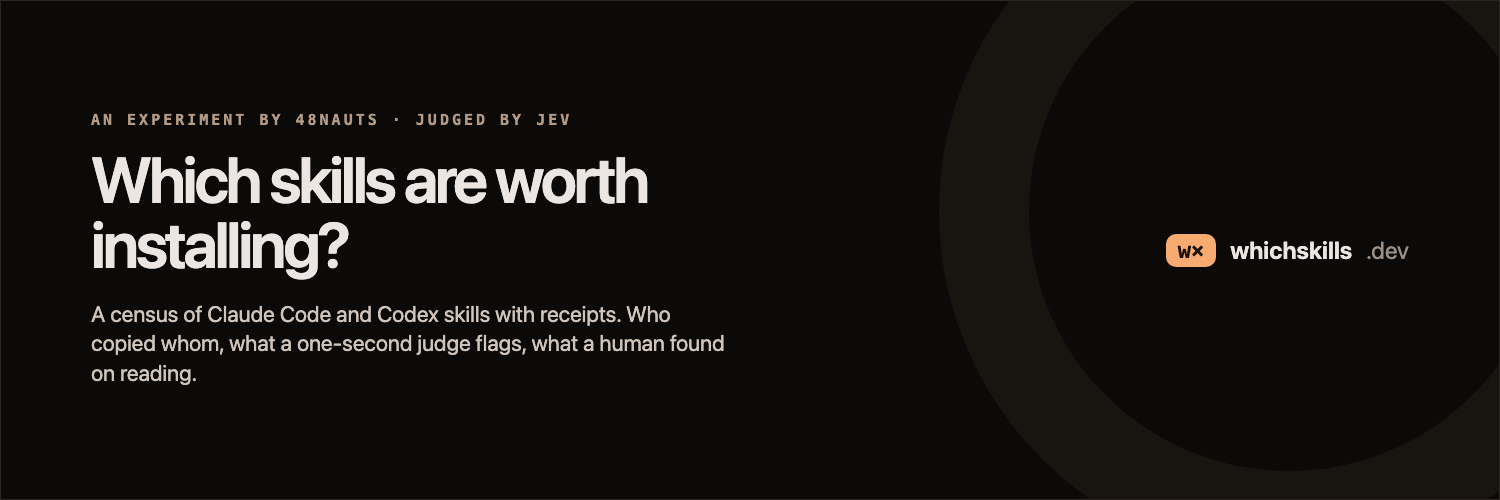
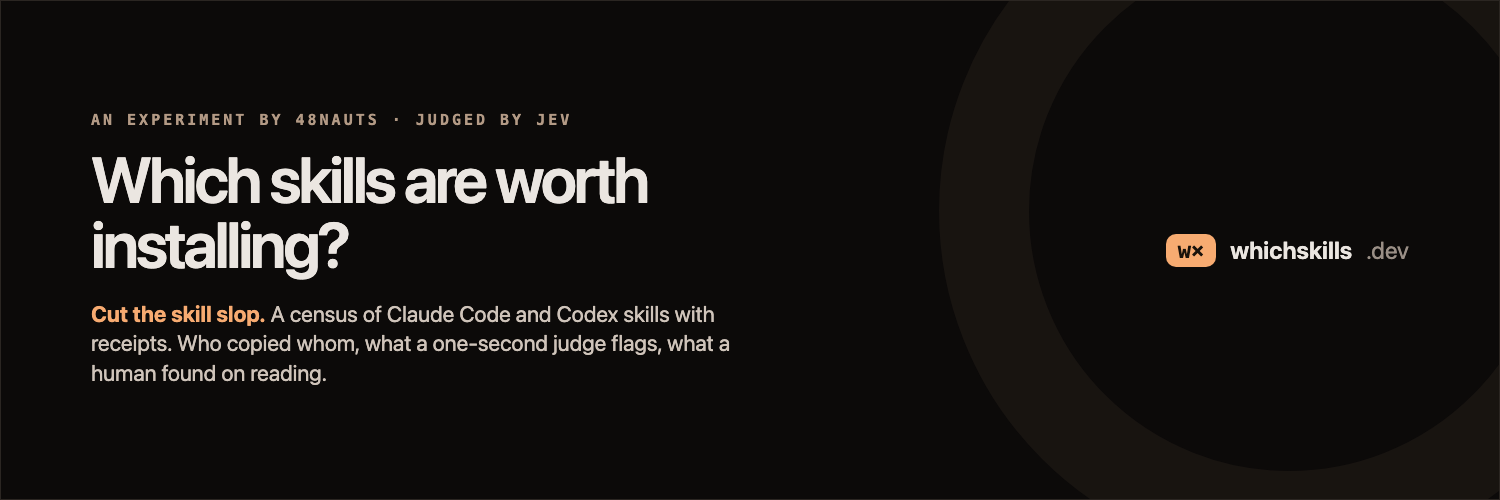
Tagline on cards and hero; dashboard screenshot

Changed region(s): [[0.0613, 0.6, 0.4907, 0.78]]

diff --git a/index.html b/index.html
@@ -5,7 +5,7 @@
 <link rel="canonical" href="https://whichskills.dev/"><meta name="theme-color" content="#0c0a09">
 <meta property="og:title" content="Which skills are worth installing?"><meta property="og:description" content="18,041 Claude Code and Codex skills from the 157 most-starred repos, read the same way and published with receipts: who copied whom, what a one-second judge flags, and what a human found on reading."><meta property="og:url" content="https://whichskills.dev/"><meta property="og:image" content="https://whichskills.dev/og.png"><meta property="og:image:width" content="1200"><meta property="og:image:height" content="630"><meta property="og:image:alt" content="Which skills are worth installing? 157 repos, 18,041 skills read, 36% identical copies, 0 read as malware."><meta property="og:type" content="website">
 <meta name="twitter:card" content="summary_large_image"><meta name="twitter:title" content="whichskills.dev"><meta name="twitter:description" content="18,041 Claude Code and Codex skills from the 157 most-starred repos, read the same way and published with receipts: who copied whom, what a one-second judge flags, and what a human found on reading."><meta name="twitter:image" content="https://whichskills.dev/og.png">
-<link rel="icon" href="/favicon.svg"><link rel="stylesheet" href="/css/style.css?v=10"><script defer src="/js/main.js?v=5"></script>
+<link rel="icon" href="/favicon.svg"><link rel="stylesheet" href="/css/style.css?v=11"><script defer src="/js/main.js?v=5"></script>
 <script defer src="https://wave.21nauts.com/script.js" data-website-id="ce023ab7-f50a-4ff0-ae87-e8909d6b257f"></script>
 <script type="application/ld+json">{"@context": "https://schema.org", "@type": "Dataset", "name": "whichskills.dev skill corpus snapshot", "description": "18041 Claude Code and Codex skills from 157 public GitHub repos: static pre-scan, Jev safety read, provenance by body hash.", "url": "https://whichskills.dev", "license": "https://creativecommons.org/licenses/by/4.0/", "creator": {"@type": "Organization", "name": "48Nauts"}, "dateModified": "2026-09-20", "distribution": [{"@type": "DataDownload", "encodingFormat": "application/json", "contentUrl": "https://whichskills.dev/data/report.json"}, {"@type": "DataDownload", "encodingFormat": "application/json", "contentUrl": "https://whichskills.dev/data/clones.json"}, {"@type": "DataDownload", "encodingFormat": "application/json", "contentUrl": "https://whichskills.dev/data/jev-risk.json"}, {"@type": "DataDownload", "encodingFormat": "application/json", "contentUrl": "https://whichskills.dev/data/corpus.json"}]}</script><script type="application/ld+json">{"@context": "https://schema.org", "@type": "FAQPage", "mainEntity": [{"@type": "Question", "name": "Is repo X malware?", "acceptedAnswer": {"@type": "Answer", "text": "No repo in this snapshot contains a skill that reads as malware aimed at the person who installs it. The safety table lists every body Jev scored 1.5 or above, what it is on reading, and a link to the exact file at the exact commit. Read it yourself; that is why the link is there."}}, {"@type": "Question", "name": "Why is my repo listed?", "acceptedAnswer": {"@type": "Answer", "text": "Because it was among the 200 most-starred GitHub repos publishing SKILL.md files when we pulled the snapshot, and it contained at least one skill or plugin manifest. Being listed is not a finding. Each row shows only what the files contained at the pinned commit."}}, {"@type": "Question", "name": "A finding is wrong or outdated. How do I get a recheck?", "acceptedAnswer": {"@type": "Answer", "text": "Open an issue on github.com/48Nauts-Operator/skill-dash with your repo name. We re-run the same pipeline against your current commit and update the row with the new commit hash. Free, and the old row stays visible with its date."}}, {"@type": "Question", "name": "What does \"byte-identical copy\" mean?", "acceptedAnswer": {"@type": "Answer", "text": "Two SKILL.md bodies that are the same after removing the frontmatter and collapsing whitespace. Renamed or lightly edited copies are not counted here; that needs a similarity pass we have not published yet."}}, {"@type": "Question", "name": "Who decided the origin of a copied skill?", "acceptedAnswer": {"@type": "Answer", "text": "A short registry of first-party sources (anthropics/skills, anthropics/claude-plugins-official, obra/superpowers, mattpocock/skills) wins when present. Otherwise the earliest first-commit date across the snapshot gets the label \"earliest known copy\", and that is all the label claims. We cannot see repos we did not crawl."}}, {"@type": "Question", "name": "Why Jev and not a big model?", "acceptedAnswer": {"@type": "Answer", "text": "Jev is a small typed-judgment model from TypeSafe. It returns a probability distribution for a fixed question in about a second, which makes 545 full-text reads cost 4 million tokens and 93 seconds, and makes every score a distribution you can inspect instead of a paragraph you have to trust. It is also an experiment. The page shows where a one-second judge agrees with pattern scanners and where it does not."}}, {"@type": "Question", "name": "Is this a security scanner?", "acceptedAnswer": {"@type": "Answer", "text": "No. NVIDIA's SkillSpector and others do that with far more rules. We run a small static pre-scan to build a queue, then a Jev read, then a human read. What we add is provenance, duplication and the receipts. Use a real scanner before installing anything."}}, {"@type": "Question", "name": "Do you sell anything?", "acceptedAnswer": {"@type": "Answer", "text": "No. The data, the questions and the pipeline are public. The domain and the tokens are paid by 48Nauts."}}]}</script>
 </head><body>
@@ -13,6 +13,7 @@
 <main>
 <section class="hero"><div class="eyebrow">AN EXPERIMENT BY 48NAUTS · JUDGED BY JEV · SNAPSHOT 2026-09-20</div>
 <h1>Which skills are worth installing?</h1>
+<p class="tagline">Cut the skill slop.</p>
 <p class="lede">We pulled the 200 most-starred GitHub repos that publish Claude Code and Codex skills, read all 18,041 of them the same way, and published every receipt. Not a scanner. A census with evidence. It shows who copied whom, what a one-second typed judge flags, and what a person found on reading the flagged files.</p>
 <div class="stats"><div class="stat"><b>157</b><span>repos with skills</span></div><div class="stat"><b>18,041</b><span>skills read</span></div><div class="stat"><b>557</b><span>plugin manifests</span></div><div class="stat"><b>36%</b><span>byte-identical copies</span></div><div class="stat"><b>545</b><span>bodies read by Jev</span></div><div class="stat"><b>0</b><span>malware aimed at the installing user</span></div></div>
 <p class="cta-line"><a class="button" href="#run">Run it on your own skills</a> <a class="button ghost" href="https://github.com/48Nauts-Operator/skill-dash">Get the code</a></p>
@@ -94,6 +95,7 @@ export TYPESAFE_API_KEY=...
 python3 server.py --port 3345      # then open http://localhost:3345</pre>
 <p class="cta-line"><a class="button" href="https://github.com/48Nauts-Operator/skill-dash">github.com/48Nauts-Operator/skill-dash</a><span class="small">MIT. No account with us, no upload, no telemetry.</span></p>
 </div></div>
+<figure class="shot"><a href="/img/dashboard.png"><img src="/img/dashboard.png" width="1440" height="1000" alt="The skill-dash dashboard: judged skills, recommended actions, usefulness distribution, sortable table with evidence and overlap per skill" loading="lazy"></a><figcaption>The dashboard, here on a public repo of 38 skills: every row judged, the recommended action, usefulness, overlap partner, and your decision. Click a row for the evidence, the Jev distributions and the radar.</figcaption></figure>
 <div class="grid three">
 <article class="card"><div class="eyebrow">1 · BASELINE YOUR TREE</div><h3>See what you actually have</h3><p>Every skill and plugin manifest in <code>~/.claude/skills</code> as a row. How often you invoked each one, from your own transcripts. Which two are twins. Which descriptions are too vague for the agent to ever pick. Which ones repeat what your CLAUDE.md already says. The same static safety pre-scan we ran on 18,041 skills, free, and the Jev read on anything it flags.</p><p class="why"><b>Why it matters.</b> A skill only helps if the agent picks it at the right moment. Fifteen that trigger reliably beat two hundred in a folder, and you cannot know which fifteen without measuring.</p></article>
 <article class="card"><div class="eyebrow">2 · VET A REPO FIRST</div><h3>Judge a list before you install from it</h3><p><code>python3 server.py --roots path/to/repo</code> loads any tree of SKILL.md files, runs the overlap audit, and asks Jev which skills duplicate each other, which are clear enough to trigger, and which are worth having on content alone. That is the exact run that produced every row on this page.</p><p class="why"><b>Why it matters.</b> Stars told us nothing about duplication, clarity or safety. Ten minutes with the repo open in the dashboard tells you more than the README does.</p></article>

diff --git a/brand/cards.html b/brand/cards.html
@@ -7,12 +7,12 @@ h1{font-size:76px;line-height:1.02;letter-spacing:-3px;margin:18px 0 0;font-weig
 .sub{font-size:26px;color:#cfc4ba;margin:22px 0 0;max-width:820px;line-height:1.35}
 .stats{display:flex;gap:40px}.stat b{display:block;font:500 44px ui-monospace,Menlo,monospace;color:#f7ab71;letter-spacing:-1.5px}.stat span{font:13px ui-monospace,Menlo,monospace;letter-spacing:1.5px;color:#9a8f86;text-transform:uppercase}
 .brand{position:absolute;right:72px;bottom:56px;display:flex;align-items:center;gap:14px;font-size:24px;font-weight:650}.mark{background:#f7ab71;color:#1a120b;border-radius:10px;padding:4px 12px;font:800 22px ui-monospace,Menlo,monospace}.tld{color:#9a8f86;font-weight:400}
-.ring{position:absolute;right:-140px;top:-140px;width:520px;height:520px;border-radius:50%;border:90px solid #1a1512;opacity:.9;z-index:0}.card>*:not(.ring){position:relative;z-index:1}
+.ring{position:absolute;right:-140px;top:-140px;width:520px;height:520px;border-radius:50%;border:90px solid #1a1512;opacity:.9;z-index:0}.card>*:not(.ring){position:relative;z-index:1}.card>.brand{position:absolute;z-index:1}
 .header{width:1500px;height:500px;padding:70px 90px;box-sizing:border-box;display:flex;align-items:center;justify-content:space-between}
 .header h1{font-size:64px;max-width:760px}.header .sub{font-size:22px;max-width:640px}
 .avatar{width:400px;height:400px;display:grid;place-content:center;border:0;box-sizing:border-box}.avatar .mark{font-size:150px;padding:30px 60px;border-radius:64px}
 </style></head><body>
-<div id="og" class="card og"><div class="ring"></div><div><div class="eyebrow">WHICHSKILLS.DEV · AN EXPERIMENT BY 48NAUTS · JUDGED BY JEV</div><h1>Which skills are worth installing?</h1><p class="sub">18,041 Claude Code and Codex skills from the 200 most-starred repos, read the same way, published with receipts.</p></div><div class="stats"><div class="stat"><b>157</b><span>repos</span></div><div class="stat"><b>18,041</b><span>skills read</span></div><div class="stat"><b>36%</b><span>identical copies</span></div><div class="stat"><b>0</b><span>read as malware</span></div></div><div class="brand"><span class="mark">w×</span>whichskills<span class="tld">.dev</span></div></div>
-<div id="header" class="card header"><div class="ring"></div><div><div class="eyebrow">AN EXPERIMENT BY 48NAUTS · JUDGED BY JEV</div><h1>Which skills are worth installing?</h1><p class="sub">A census of Claude Code and Codex skills with receipts. Who copied whom, what a one-second judge flags, what a human found on reading.</p></div><div class="brand" style="position:static"><span class="mark">w×</span>whichskills<span class="tld">.dev</span></div></div>
+<div id="og" class="card og"><div class="ring"></div><div><div class="eyebrow">WHICHSKILLS.DEV · AN EXPERIMENT BY 48NAUTS · JUDGED BY JEV</div><h1>Which skills are worth installing?</h1><p class="sub"><b style="color:#f7ab71">Cut the skill slop.</b> 18,041 Claude Code and Codex skills from the 200 most-starred repos, read the same way, published with receipts.</p></div><div class="stats"><div class="stat"><b>157</b><span>repos</span></div><div class="stat"><b>18,041</b><span>skills read</span></div><div class="stat"><b>36%</b><span>identical copies</span></div><div class="stat"><b>0</b><span>read as malware</span></div></div><div class="brand"><span class="mark">w×</span>whichskills<span class="tld">.dev</span></div></div>
+<div id="header" class="card header"><div class="ring"></div><div><div class="eyebrow">AN EXPERIMENT BY 48NAUTS · JUDGED BY JEV</div><h1>Which skills are worth installing?</h1><p class="sub"><b style="color:#f7ab71">Cut the skill slop.</b> A census of Claude Code and Codex skills with receipts. Who copied whom, what a one-second judge flags, what a human found on reading.</p></div><div class="brand" style="position:static!important"><span class="mark">w×</span>whichskills<span class="tld">.dev</span></div></div>
 <div id="avatar" class="card avatar"><span class="mark">w×</span></div>
 </body></html>

diff --git a/privacy.html b/privacy.html
@@ -1,1 +1,1 @@
-<!doctype html><html lang="en"><head><meta charset="utf-8"><meta name="viewport" content="width=device-width,initial-scale=1"><title>Privacy · whichskills.dev</title><meta name="robots" content="noindex"><link rel="stylesheet" href="/css/style.css?v=10"></head><body><header class="nav"><a class="brand" href="/"><span class="mark">w×</span> whichskills<span class="tld">.dev</span></a></header><main><section><h1>Privacy</h1><p>This site is static files on GitHub Pages behind Cloudflare. It sets no cookies and keeps no accounts. Page views are counted by a self-hosted, cookieless Umami instance operated by 48Nauts; it records the page, referrer, browser family and country, no personal identifiers, and honours Do Not Track. The data published here was collected from public GitHub repositories and describes files, not people; repository owners are named because the files are theirs. To request a recheck or a correction, open an issue on the whichskills repository.</p></section></main></body></html>
+<!doctype html><html lang="en"><head><meta charset="utf-8"><meta name="viewport" content="width=device-width,initial-scale=1"><title>Privacy · whichskills.dev</title><meta name="robots" content="noindex"><link rel="stylesheet" href="/css/style.css?v=11"></head><body><header class="nav"><a class="brand" href="/"><span class="mark">w×</span> whichskills<span class="tld">.dev</span></a></header><main><section><h1>Privacy</h1><p>This site is static files on GitHub Pages behind Cloudflare. It sets no cookies and keeps no accounts. Page views are counted by a self-hosted, cookieless Umami instance operated by 48Nauts; it records the page, referrer, browser family and country, no personal identifiers, and honours Do Not Track. The data published here was collected from public GitHub repositories and describes files, not people; repository owners are named because the files are theirs. To request a recheck or a correction, open an issue on the whichskills repository.</p></section></main></body></html>

diff --git a/terms.html b/terms.html
@@ -1,1 +1,1 @@
-<!doctype html><html lang="en"><head><meta charset="utf-8"><meta name="viewport" content="width=device-width,initial-scale=1"><title>Terms · whichskills.dev</title><meta name="robots" content="noindex"><link rel="stylesheet" href="/css/style.css?v=10"></head><body><header class="nav"><a class="brand" href="/"><span class="mark">w×</span> whichskills<span class="tld">.dev</span></a></header><main><section><h1>Terms</h1><p>Everything on this site describes the content of public files at a specific commit, produced by the published pipeline. It is not security advice and not a certification. A row without findings means nothing was found in the text that was read. Use a dedicated scanner before installing anything. Data is published under CC BY 4.0, code under the license in the repository. 48Nauts accepts no liability for decisions made on the basis of this page.</p></section></main></body></html>
+<!doctype html><html lang="en"><head><meta charset="utf-8"><meta name="viewport" content="width=device-width,initial-scale=1"><title>Terms · whichskills.dev</title><meta name="robots" content="noindex"><link rel="stylesheet" href="/css/style.css?v=11"></head><body><header class="nav"><a class="brand" href="/"><span class="mark">w×</span> whichskills<span class="tld">.dev</span></a></header><main><section><h1>Terms</h1><p>Everything on this site describes the content of public files at a specific commit, produced by the published pipeline. It is not security advice and not a certification. A row without findings means nothing was found in the text that was read. Use a dedicated scanner before installing anything. Data is published under CC BY 4.0, code under the license in the repository. 48Nauts accepts no liability for decisions made on the basis of this page.</p></section></main></body></html>

diff --git a/css/style.css b/css/style.css
@@ -52,3 +52,6 @@ footer{flex-direction:column;gap:8px}
 @media(max-width:900px){.grid.three{grid-template-columns:1fr}}
 
 .nav nav a.gh{display:inline-flex;align-items:center;color:var(--text)}.nav nav a.gh:hover{color:var(--accent)}
+
+.tagline{font:600 20px/1.2 var(--mono);color:var(--accent);letter-spacing:-.3px;margin:0 0 14px}
+.shot{margin:18px 0 22px}.shot img{width:100%;height:auto;display:block;border:1px solid var(--border);border-radius:10px}.shot figcaption{font-size:12.5px;color:var(--muted);margin-top:8px}
